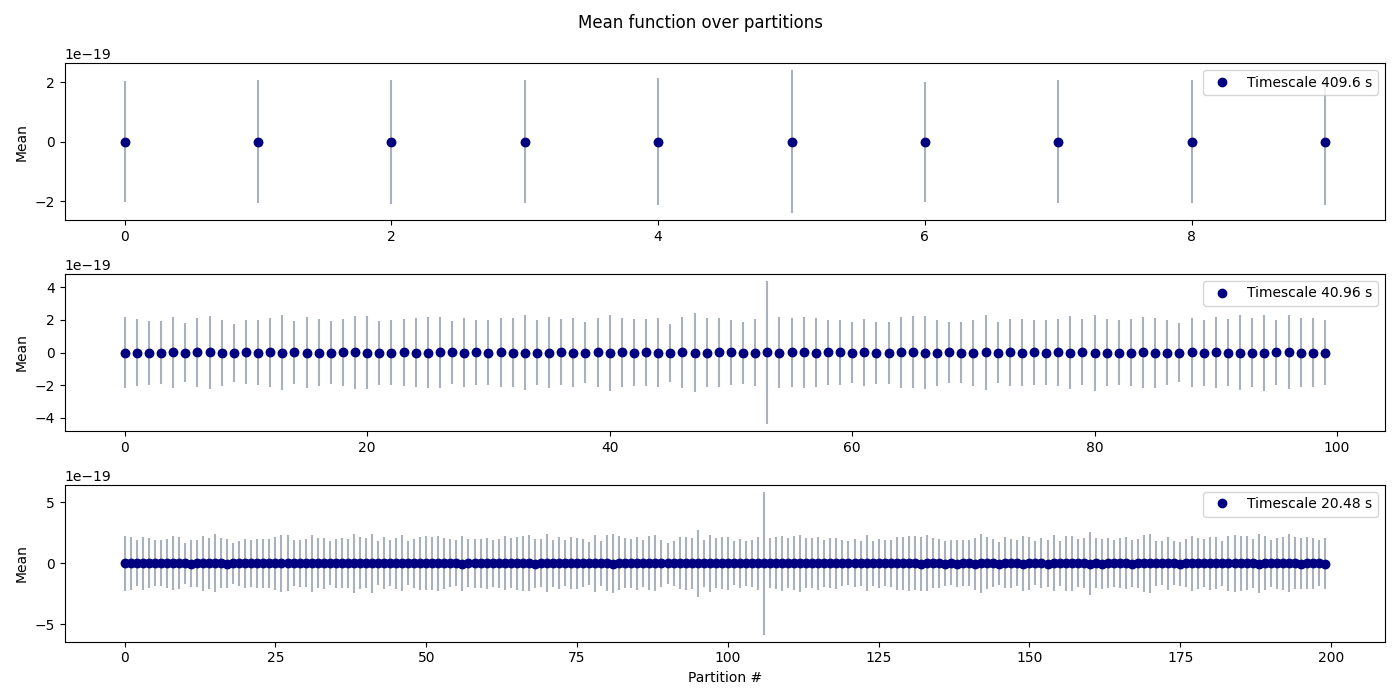
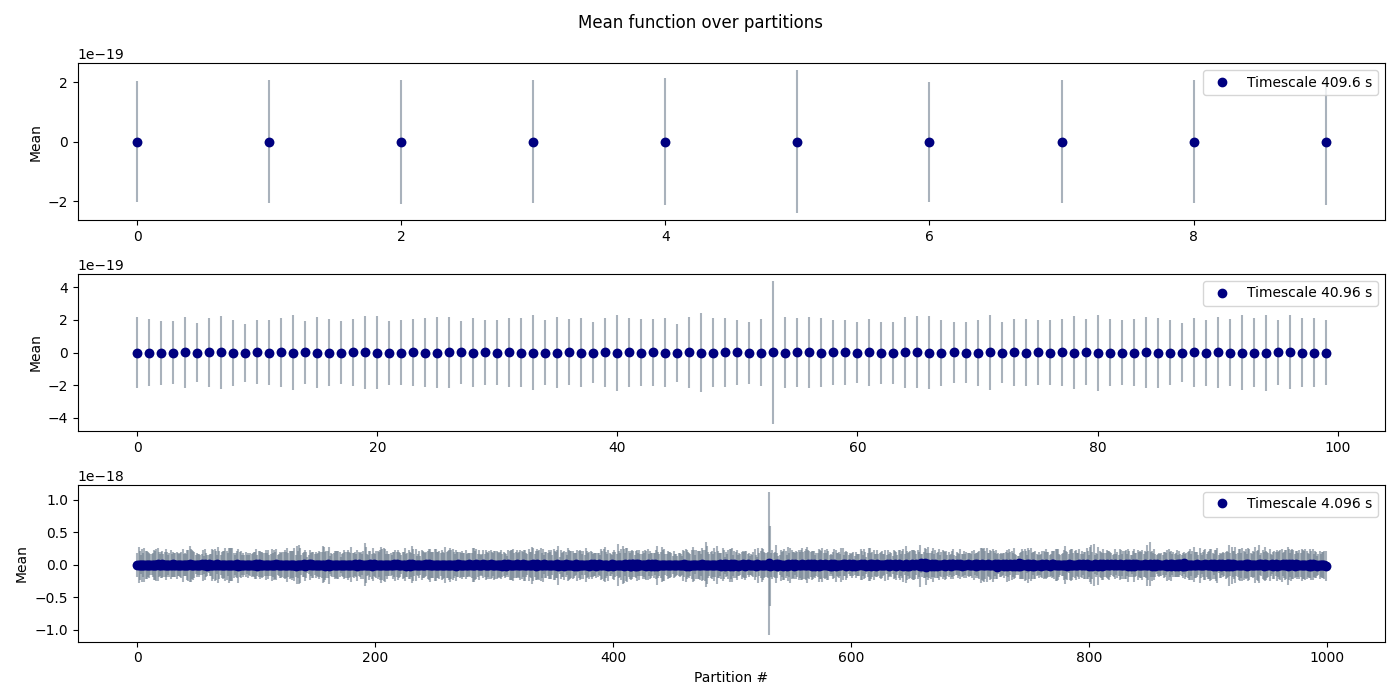
spectral analysis

diff --git a/1spectral_analysis.py b/1spectral_analysis.py
@@ -1,0 +1,76 @@
+from gwpy.timeseries import TimeSeries
+import matplotlib.pyplot as plt
+import numpy as np
+import statsmodels.api as sm
+from scipy.stats import kstest
+from scipy.signal import welch
+import scipy
+
+if __name__=='__main__':
+    t0 = 1126257415
+    t1 = 1126259462 #time of the event
+    # The event occurred at GPS time 1126259462 = September 14 2015, 09:50:45 UTC
+    # Gravitational wave strain for GW150914_R1 for H1 (see http://losc.ligo.org)
+    # This file has 4096 samples per second
+    # starting GPS 1126257415 duration 4096
+    data = np.loadtxt('data/H-H1_GWOSC_4KHZ_R1-1126257415-4096.txt')
+
+    #PSD using welch's method
+    fs = 4096
+    NFFT = 4 * fs  # Use 4 seconds of data for each Fourier transform
+    NOVL = int(0.5 * NFFT)  # The number of points of overlap between segments
+    psd_window = scipy.signal.windows.tukey(NFFT, alpha=1./4)
+
+    plt.figure(figsize=(8, 5))
+    ax = plt.axes()
+    plt.xlim(0,fs/2)
+    #plt.ylim(1e-48,1e-40)
+    #plt.xscale('log', base=2)
+    plt.title('Power Spectral Density for the full 4096 seconds')
+    plt.yscale('log', base=10)
+    plt.xlabel('Frequency [Hz]')
+    plt.ylabel(r'S$_n$(f)')
+    # Compute the PSD using Welch's method
+    freqs, Pxx_H1 = welch(data, fs=fs, nperseg=NFFT, window=psd_window, noverlap=NOVL)
+
+    # Plotting PSD with and without window
+    plt.plot(freqs, Pxx_H1, alpha=.8, linewidth=1)
+    plt.savefig('figures/pds_full.png')
+    plt.show()
+
+
+    plt.figure(figsize=(8, 5))
+    ax = plt.axes()
+    plt.xlim(16,512)
+    plt.ylim(1e-47,1e-41)
+    plt.xscale('log', base=2)
+    plt.title('Power Spectral Density for the full 4096 seconds')
+    plt.yscale('log', base=10)
+    plt.xlabel('Frequency [Hz]')
+    plt.ylabel(r'S$_n$(f)')
+    # Compute the PSD using Welch's method
+    freqs, Pxx_H1 = welch(data, fs=fs, nperseg=NFFT, window=psd_window, noverlap=NOVL)
+
+    # Plotting PSD with and without window
+    plt.plot(freqs, Pxx_H1, alpha=.8, linewidth=1)
+    plt.savefig('figures/pds_full_logscale.png')
+    plt.show()
+
+
+    plt.figure(figsize=(12, 7))
+    ax = plt.axes()
+    plt.xlim(16,1024)
+    plt.ylim(1e-47,1e-40)
+    plt.xscale('log', base=2)
+    plt.yscale('log', base=10)
+    n_split = 10
+    for j, k in enumerate(np.array_split(data, n_split)):
+        # Compute the PSD using Welch's method
+        freqs, Pxx_H1 = welch(k, fs=fs, nperseg=NFFT, window=psd_window, noverlap=NOVL)
+        # Plotting PSD with and without window
+        plt.plot(freqs, Pxx_H1, label=f'Partition bin #{j+1}', alpha=.8, linewidth=.7)
+    plt.xlabel('Frequency [Hz]')
+    plt.ylabel(r'S$_n$(f)')
+    plt.legend()
+    plt.savefig('figures/pds_partition.png')
+    plt.show()

diff --git a/1stationarity.py b/1stationarity.py
@@ -1,5 +1,6 @@
 import numpy as np
 import matplotlib.pyplot as plt
+import statsmodels.api as sm
 
 def partitions_mean(splits,data):
     plt.figure('partitions',figsize=(14,7))
@@ -25,6 +26,24 @@ def partitions_mean(splits,data):
     plt.savefig('figures/partitions_mean')
     plt.show()
 
+
+def partitions_acf(data,n_split):
+    plt.figure('partitions',figsize=(14,7))
+    plt.suptitle(f'ACF computer over {n_split} different partitions')
+    timescale = 4096/n_split
+    print(f'timescale: {timescale:.2} s')
+    for j, k in enumerate(np.array_split(data, n_split)):
+        acf = sm.tsa.acf(k, nlags=4096, fft=True)
+        plt.plot(acf,'.',label=f'partition {j+1}')
+        plt.xlabel('Lag')
+        plt.ylabel('ACF')
+        plt.legend()
+    plt.tight_layout()
+    plt.savefig('figures/partitions_acf')
+    plt.show()
+
+
+
     return
 
 if __name__ == "__main__":
@@ -42,6 +61,7 @@ if __name__ == "__main__":
     print("Standard Deviation:", total_std)
 
     #Check for stationarity
-    splits = [10,100,200]
+    splits = [10,100,1000]
     partitions_mean(splits,data)
 
+    partitions_acf(data,10)

diff --git a/wss_check.py b/wss_check.py
@@ -17,7 +17,7 @@ def plot_psd_comparison(data):
 
     plt.figure(figsize=(8, 5))
     ax = plt.axes()
-    plt.xscale('log', base=2)
+    #plt.xscale('log', base=2)
     plt.yscale('log', base=10)
 
     # Plotting PSD with and without window
@@ -37,6 +37,7 @@ def plot_psd_comparison(data):
     plt.legend(loc='best')
     plt.title('PSD for the full 4096 seconds')
     plt.show()
+    exit()
     # ACF computation (unchanged)
     from statsmodels.tsa.stattools import acf
     acf_array = acf(Pxx_H1, fft=True, nlags=50)
